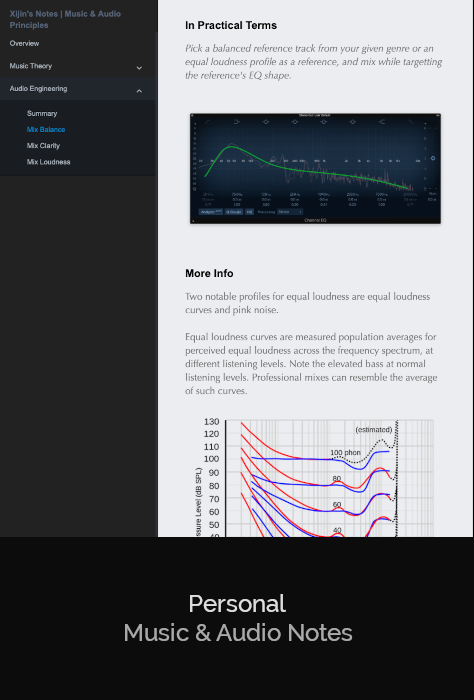
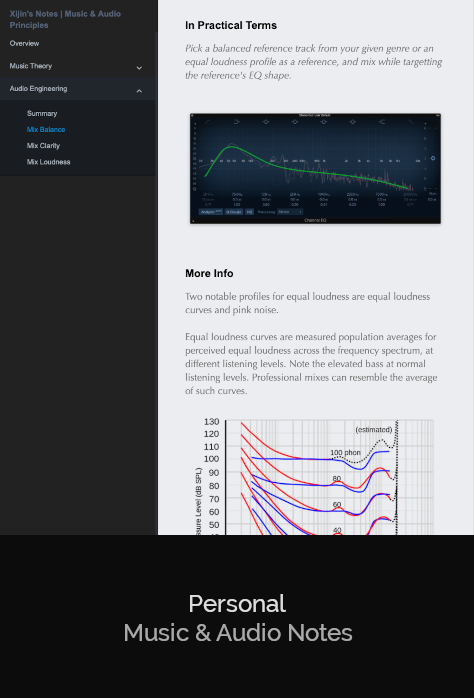
Twitter - X Update

diff --git a/index.html b/index.html
@@ -19,7 +19,8 @@
     <link rel="stylesheet" href="css/main.css">
     <link rel="stylesheet" href="css/responsive.css">
     <link rel="stylesheet" href="css/animate.min.css">
-    <link rel="stylesheet" href="https://maxcdn.bootstrapcdn.com/font-awesome/4.4.0/css/font-awesome.min.css">
+    <!-- <link rel="stylesheet" href="https://maxcdn.bootstrapcdn.com/font-awesome/4.4.0/css/font-awesome.min.css"> -->
+    <link rel="stylesheet" href="https://cdnjs.cloudflare.com/ajax/libs/font-awesome/7.0.1/css/all.min.css">
     <link rel="stylesheet" type="text/css" href="css/animate.css" /> <!-- from Ver 1-->
 </head>
 <body>
@@ -34,7 +35,7 @@
         <div class="container-fluid">
             <div class="row no-gutter">
                 <div class="col-lg-3 col-md-3 col-sm-4 col-xs-6 work">
-                    <a href="notes-overview.html">
+                    <a href="">
                         <img src="images/Audiofixup.jpg" alt="" class="img-responsive center-block" >
                         <div class="overlay">
                             <div class="overlay-caption">
@@ -271,7 +272,7 @@
                 </div>
                 <div class="col-lg-3 col-md-3 col-sm-4 col-xs-6 work">
                     <a href="notes-overview.html">
-                        <img src="images/Audio Notes.png" alt="" class="img-responsive center-block" >
+                        <img src="images/Audio Notes.jpeg" alt="" class="img-responsive center-block" >
                         <div class="overlay">
                             <div class="overlay-caption">
                                 <h5>Audio Notes</h5>
@@ -322,10 +323,10 @@
                             				var username = "xijin";
                             				var hostname1 = "xijin";
                             				var hostname2 = ".co.uk"
-                            				document.write("<li><a href='" + "ma" + "i" + "l" + "to:" + username + "@" + hostname1 + hostname2 + "' title='Contact'><i class='fa fa-envelope'></i></a></li>");
+                            				document.write("<li><a href='" + "ma" + "i" + "l" + "to:" + username + "@" + hostname1 + hostname2 + "' title='Contact'><i class='fa-solid fa-envelope'></i></a></li>");
                             			</script>
 
-                                  <li><a href="https://twitter.com/xijinchan" title='Twitter'><i class="fa fa-twitter"></i></a></li>
+                                  <li><a href="https://x.com/xijinchan" title='Twitter'><i class="fa-brands fa-x-twitter"></i></a></li>
                             <!-- <li><a href="http://www.slashthree.com" title='Slashthree'><i class="fa fa-globe"></i></a></li> -->
                             <!-- <li><a href="http://youtube.com/xijinmusic" title='Youtube'><i class="fa fa-youtube-play"></i></a></li> -->
                         </ul>

diff --git a/Anti-Trump.html b/Anti-Trump.html
@@ -31,12 +31,12 @@
  </div>
 						
 <div class="col-lg-6 col-md-6 col-sm-6 col-xs-12">
-    <h4>Anti-Trump Attack Ad Music 2020</h4>
+    <h4>Anti-Trump Attack Ad Music 2020 & 2016</h4>
     <br>
-    Orchestral political music, a piece a day speedwritten and produced in the 2 months leading upto the 2020 US presidential elections. 
+    Orchestral political music, a piece a day speedwritten and produced in the 2 months leading upto the 2020 & 2016 US presidential elections. 
     <br>
     <br>
-    Used by independent anti-Trump media groups.
+    Used in Patricia Lock Dawson's Riverside California mayoral election (@teampatricialockdawson on IG) & independent media groups.
 
     <br>
     <br>

diff --git a/Anti-ISIS(Desktop).html b/Anti-ISIS(Desktop).html
@@ -35,7 +35,7 @@
       <div class="col-lg-12 col-md-12 col-sm-12">
         <br><br><br><br>
         <H7>The Anti-ISIS Soundtrack</H7>
-      <iframe style="border: 0; width: 100%; height: 42px;" src="https://bandcamp.com/EmbeddedPlayer/track=2753650171/size=small/bgcol=333333/linkcol=0f91ff/transparent=true/" seamless><a href="http://xijin.bandcamp.com/track/introducing-the-anti-isis-soundtrack">Introducing: The Anti-ISIS Soundtrack by Xijin</a></iframe>
+      <!-- <iframe style="border: 0; width: 100%; height: 42px;" src="https://bandcamp.com/EmbeddedPlayer/track=2753650171/size=small/bgcol=333333/linkcol=0f91ff/transparent=true/" seamless><a href="http://xijin.bandcamp.com/track/introducing-the-anti-isis-soundtrack">Introducing: The Anti-ISIS Soundtrack by Xijin</a></iframe> -->
         <br><br><br>
 
 

diff --git a/Anti-ISIS(Mobile).html b/Anti-ISIS(Mobile).html
@@ -48,7 +48,7 @@
       <div class="col-lg-12 col-md-12 col-sm-12">
         <br><br><br><br><br><br>
         <H7>The Anti-ISIS Soundtrack</H7>
-      <iframe style="border: 0; width: 100%; height: 42px;" src="https://bandcamp.com/EmbeddedPlayer/track=2753650171/size=small/bgcol=333333/linkcol=0f91ff/transparent=true/" seamless><a href="http://xijin.bandcamp.com/track/introducing-the-anti-isis-soundtrack">Introducing: The Anti-ISIS Soundtrack by Xijin</a></iframe>
+      <!-- <iframe style="border: 0; width: 100%; height: 42px;" src="https://bandcamp.com/EmbeddedPlayer/track=2753650171/size=small/bgcol=333333/linkcol=0f91ff/transparent=true/" seamless><a href="http://xijin.bandcamp.com/track/introducing-the-anti-isis-soundtrack">Introducing: The Anti-ISIS Soundtrack by Xijin</a></iframe> -->
         <br><br><br>
 
 

diff --git a/css/main.css b/css/main.css
@@ -33,7 +33,7 @@ h5 {
   font-weight: 700; }
 
 h6 {
-  font-size: 16px
+  font-size: 16px;
   color: #fff;
   font-weight: 400; }
 